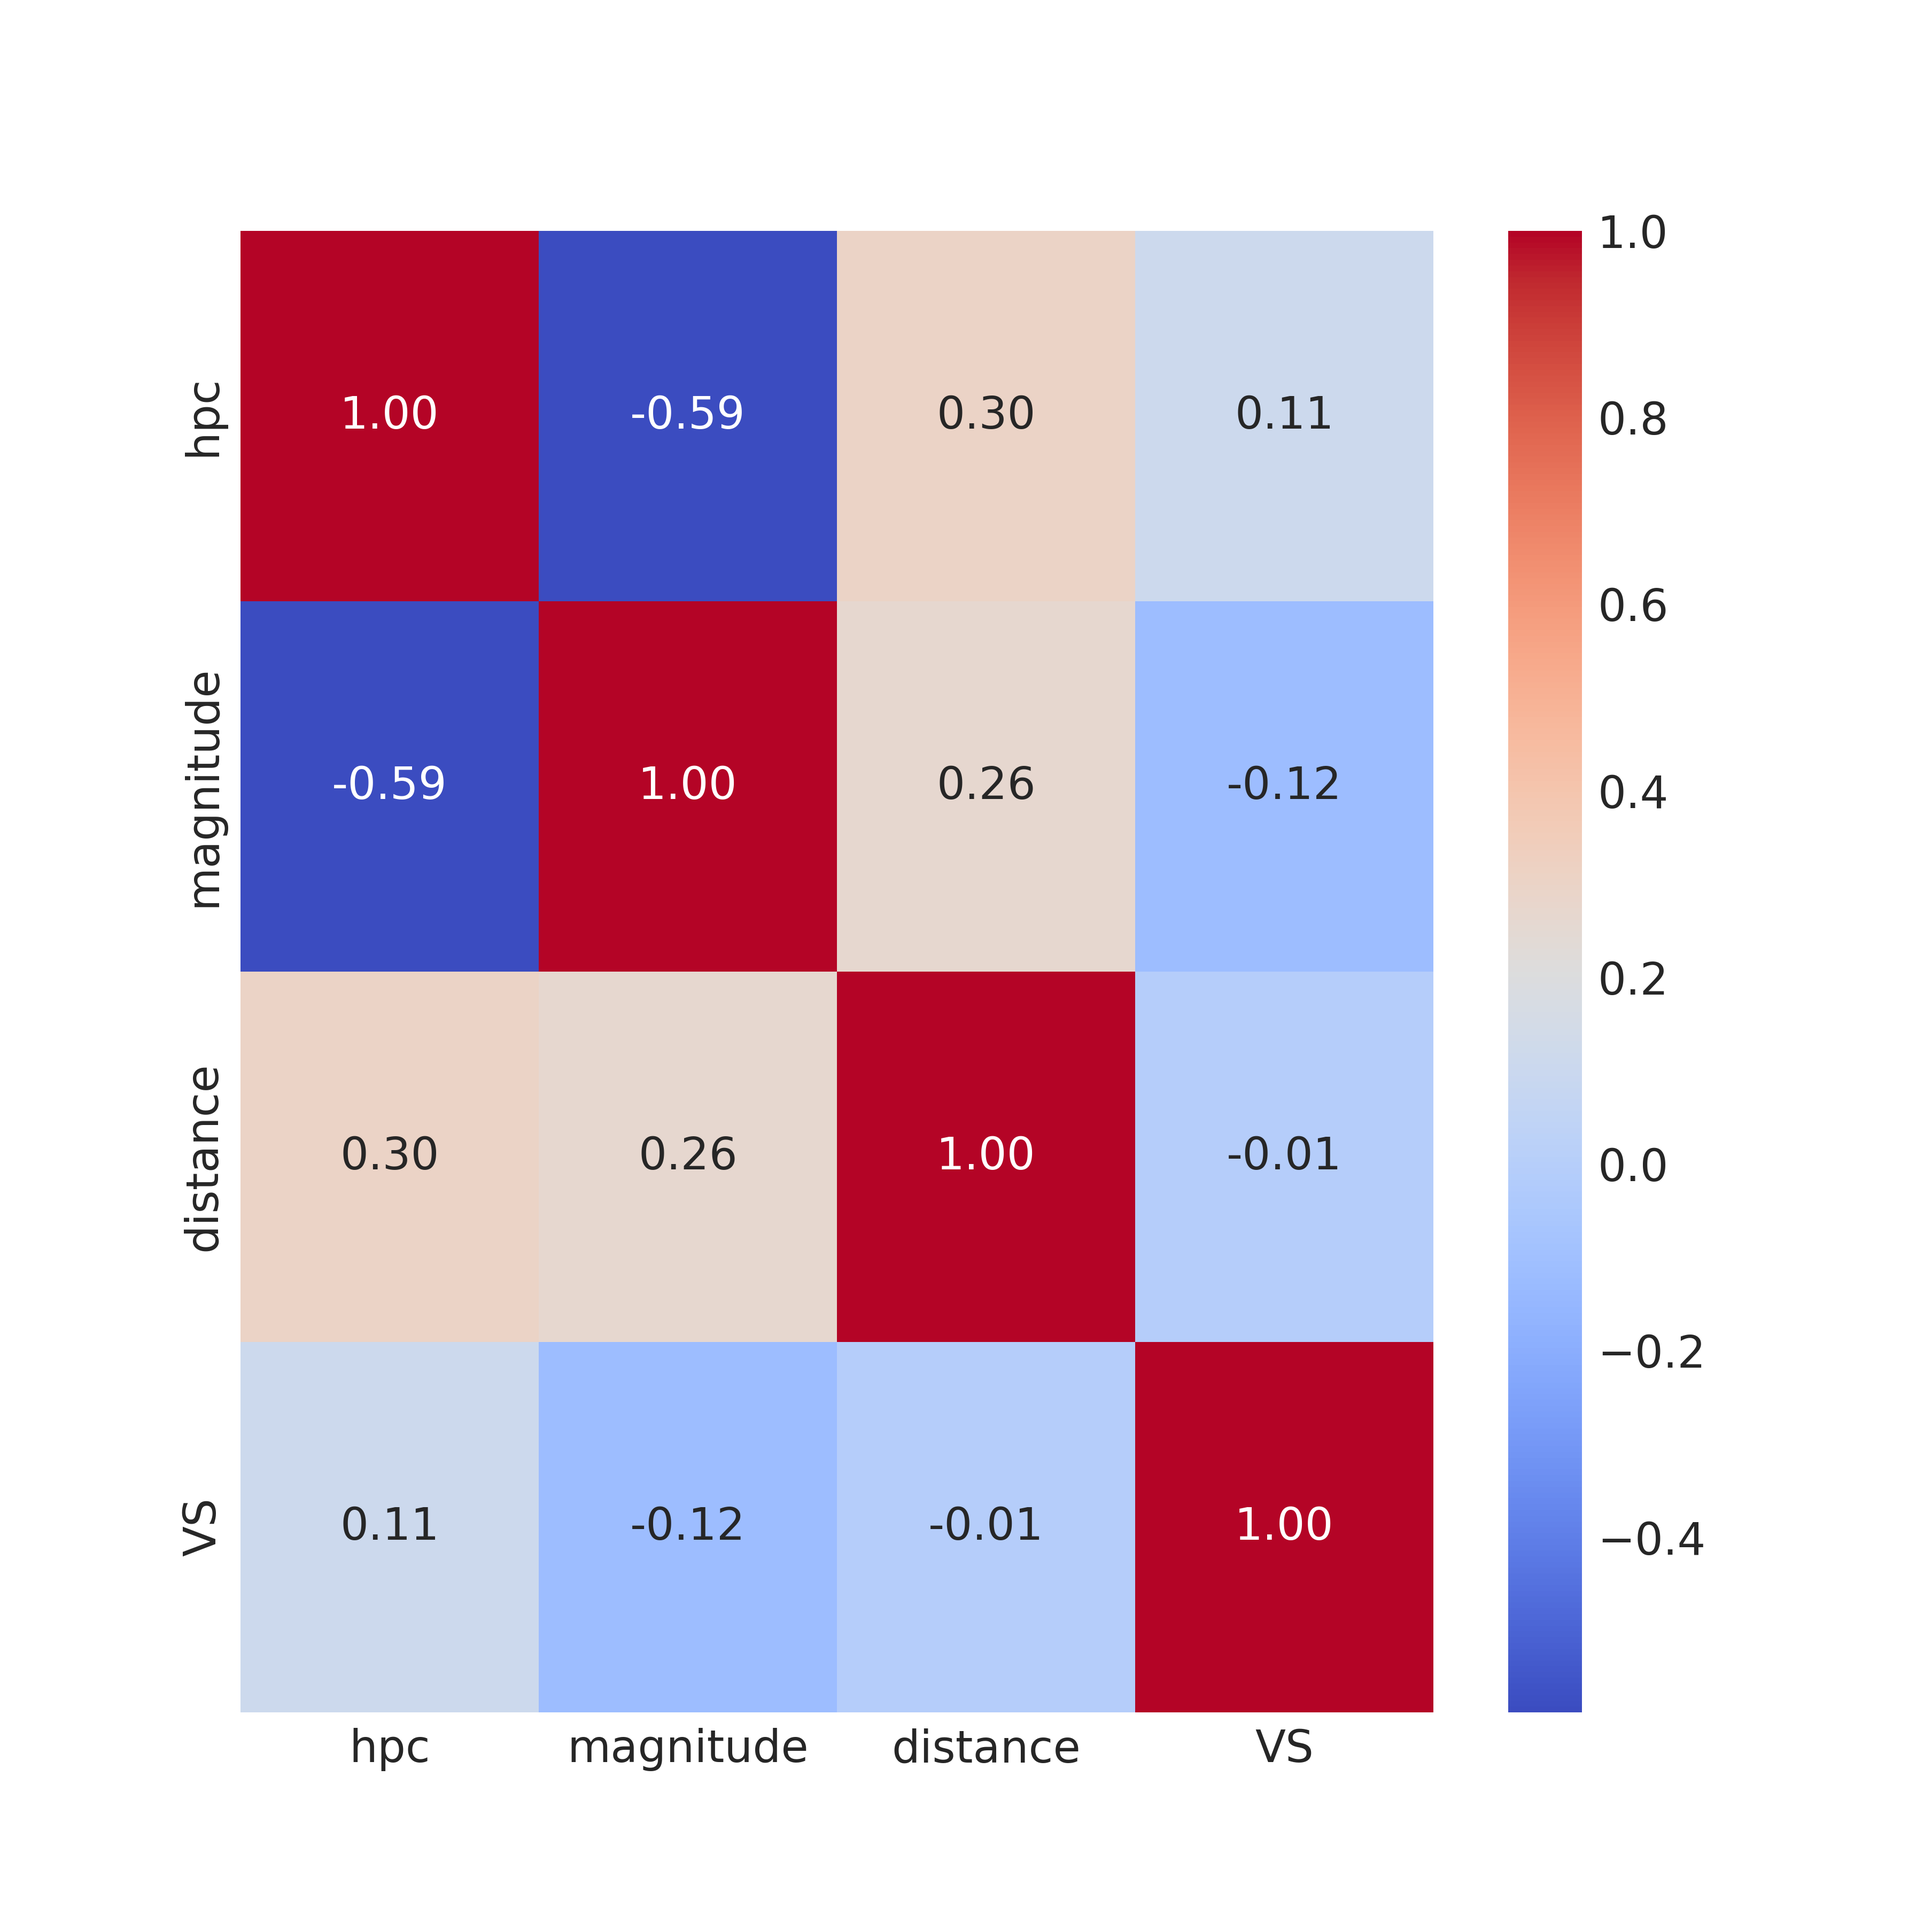
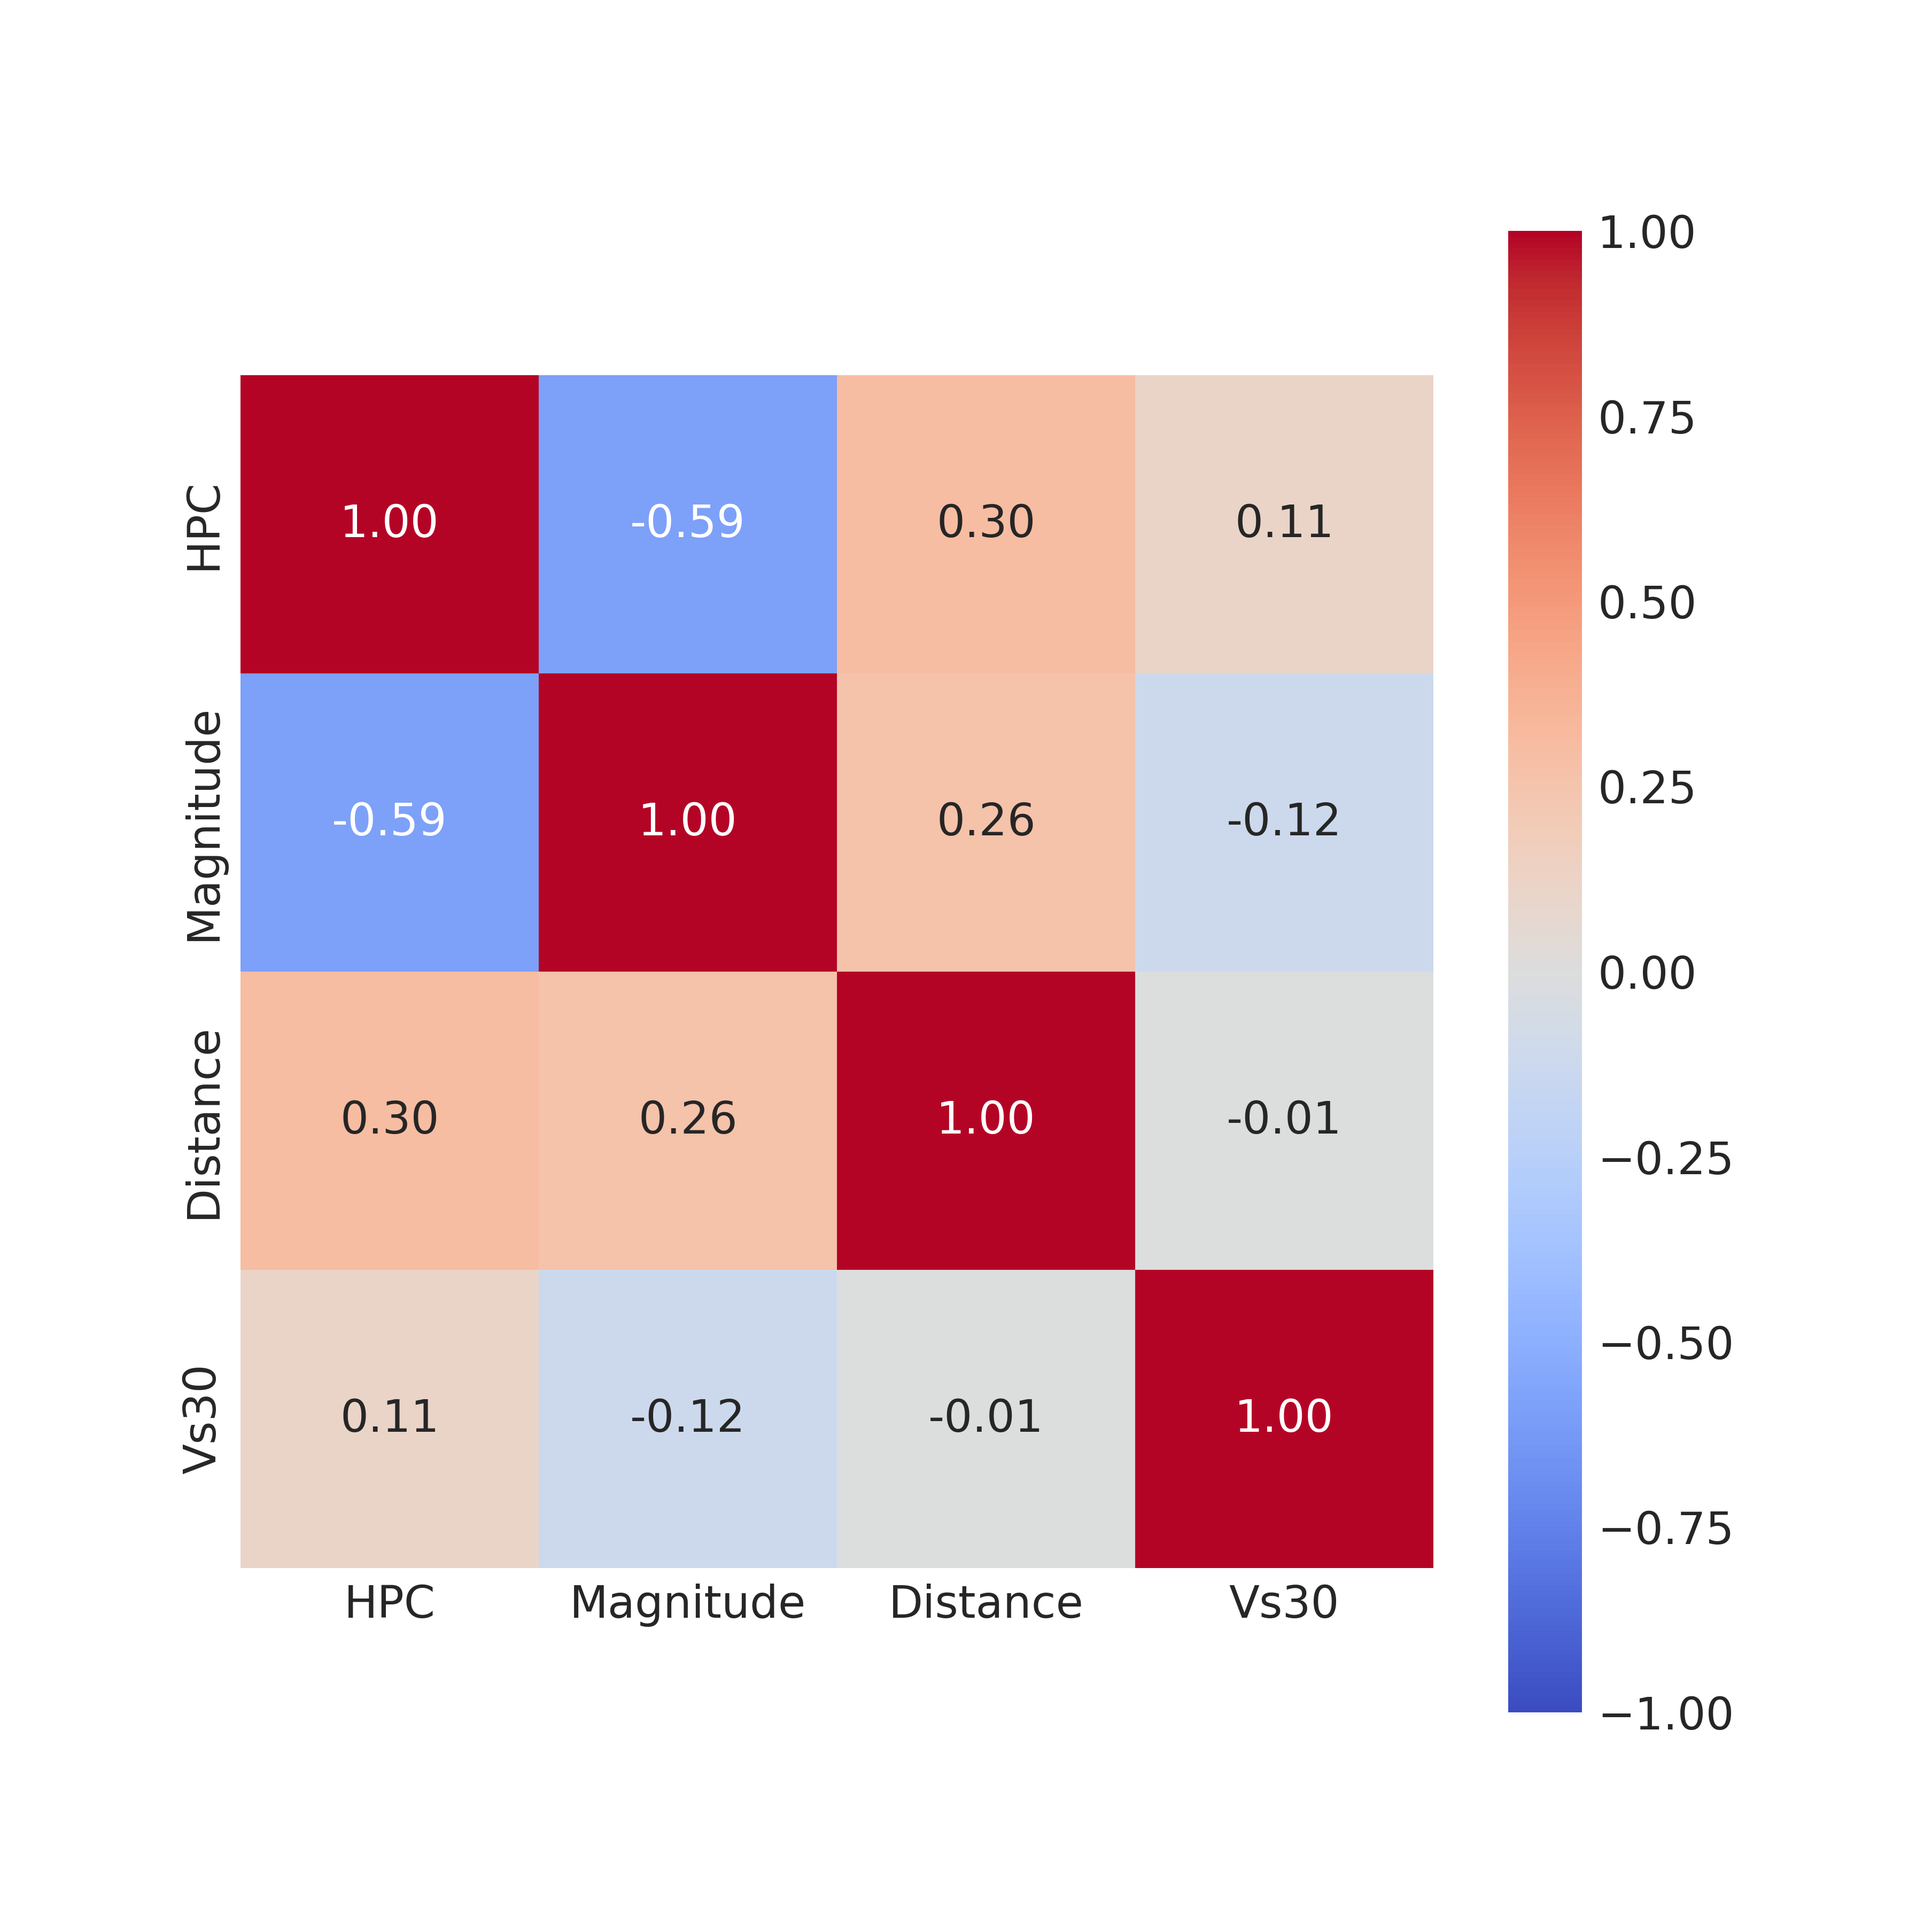
SRL_paper revisions

diff --git a/scripts/srl_paper.py b/scripts/srl_paper.py
@@ -119,13 +119,30 @@ print(f"Percentage of duplicate entries: {percentage:.2f}%")
 
 # --- 6. Distance-Magnitude plot % ---
 
-g = sns.jointplot(data=df, x="distance", y="magnitude", hue="label", kind='scatter', s=50, alpha=0.5, palette=['red', 'blue'], height=6)
+g = sns.jointplot(data=df, x="distance", y="magnitude", hue="label", kind='scatter', s=50, alpha=0.5, palette=['red', 'blue'], height=6,
+                  marginal_ticks=True)
 
+# approach 2
+# g = sns.JointGrid(data=df, x="distance", y="magnitude", hue="label", palette=['red', 'blue'], height=6,  marginal_ticks=True)
+# # Customize scatterplot: size and alpha
+# g.plot_joint(sns.scatterplot, s=60, alpha=0.4)
+# # Add marginal histograms
+# # g.plot_marginals(sns.histplot, alpha=0.4)
 
+# # Plot marginal histograms only
+
+# palette = {'Failed': 'red', 'Passed': 'blue'}
+# sns.histplot(data=df, x="distance", hue="label", common_norm=True, ax=g.ax_marg_x, log_scale=True, palette=palette,
+#              legend=False, alpha=0.4)
+# sns.histplot(data=df, y="magnitude", hue="label", common_norm=True, ax=g.ax_marg_y, palette=palette, legend=False, alpha=0.4)
+
+# Remove the legend
+g.ax_joint.legend_.remove()
 g.ax_joint.set_xscale('log')
 g.ax_joint.grid(True, linestyle='--', alpha=0.6) 
-g.savefig("../outputs/SRL_mag-dist.png", dpi=600)
+g.set_axis_labels("Distance (km)", "Magnitude (Mw)")
 
+g.savefig("../outputs/SRL_mag-dist.png", dpi=600)
 # --- 7. Network, and instrument plots % ---
 df_pass['instrument_type'] = df_pass['record_id'].str.split('.').str[3].str[:-1]
 all_networks = sorted(df_pass['network'].unique())
@@ -139,7 +156,7 @@ network_counts = df_pass['network'].value_counts().reindex(all_networks, fill_va
 total_records = len(df_pass)
 network_percentages = (network_counts / total_records) * 100
 
-# --- Subplot 2: Records with distance < 100 km by network as a percentage ---
+# --- Subplot 2: Records with distance < 50 km by network as a percentage ---
 # Filter the DataFrame for records with distance less than 50 km
 df_filtered = df_pass[df_pass['distance'] < 50]
 # Count the number of records for each network, reindex, and convert to percentages.
@@ -166,8 +183,8 @@ class_percentages = (class_counts / class_counts.sum()) * 100
 
 # Create a figure with two subplots side by side and shared x-axis
 # Create the figure and axes
-fig, axes = plt.subplots(3, 2, figsize=(16, 14))
-labels = ['(a)', '(b)', '(c)', '(d)', '(e)', '(f)']
+fig, axes = plt.subplots(3, 2, figsize=(14, 14))
+labels = ['(a)', '(b)', '(a)', '(b)', '(a)', '(b)']
 data_series = [
     network_percentages,
     network_percentages_filtered,
@@ -186,17 +203,34 @@ xlabels = [
 ]
 
 # Plot each subplot
-for i, ax in enumerate(axes.flat):
-    series = data_series[i]
-    ax.bar(series.index, series.values, color='gray', edgecolor='black')
-    ax.set_xlabel(xlabels[i])
-    ax.set_ylabel('Percentage (%)')
-    ax.grid(axis='y', linestyle='--', alpha=0.7)
-    ax.text(0.007, 0.98, labels[i], transform=ax.transAxes, fontsize=12, verticalalignment='top')
-    plt.setp(ax.get_xticklabels(), rotation=45 if i == 4 else (90 if i in [0, 1] else 0))
+# for i, ax in enumerate(axes.flat):
+#     series = data_series[i]
+#     ax.bar(series.index, series.values, color='gray', edgecolor='black')
+#     ax.set_xlabel(xlabels[i])
+#     ax.set_ylabel('Percentage (%)')
+#     ax.grid(axis='y', linestyle='--', alpha=0.7)
+#     ax.text(0.007, 0.98, labels[i], transform=ax.transAxes, fontsize=12, verticalalignment='top')
+#     plt.setp(ax.get_xticklabels(), rotation=45 if i == 4 else (90 if i in [0, 1] else 0))
+# plt.tight_layout()
+# plt.savefig("../outputs/SRL_net_inst_vs.png", dpi=600)
+# Create three separate 2x1 figures
+fig_file = ['../outputs/SRL_net.png', '../outputs/SRL_inst.png','../outputs/SRL_vs.png']
+for fig_num in range(3):
+    fig, axes = plt.subplots(2, 1, figsize=(6, 6))
+    for i in range(2):
+        idx = fig_num * 2 + i
+        ax = axes[i]
+        series = data_series[idx]
+        ax.bar(series.index, series.values, color='gray', edgecolor='black')
+        ax.set_xlabel(xlabels[idx])
+        ax.set_ylabel('Percentage (%)')
+        ax.grid(axis='y', linestyle='--', alpha=0.7)
+        ax.text(0.007, 0.98, labels[idx], transform=ax.transAxes, fontsize=12, verticalalignment='top')
+        plt.setp(ax.get_xticklabels(), rotation=45 if idx == 4 else (90 if idx in [0, 1] else 0))
+    plt.tight_layout()
+    plt.savefig(fig_file[fig_num], dpi=600)
+breakpoint()
 
-plt.tight_layout()
-plt.savefig("../outputs/SRL_net_inst_vs.png", dpi=600)
 # --- 8. plot fail reason histogram % ---
 df_fail_all_channels = df_fail_all_channels[(df_fail_all_channels['record_id'].str.endswith('Z')) & (df_fail_all_channels['magnitude'] >= 3.75) & (df_fail_all_channels['distance'] <= 1500)]
 # Filter out rows where fail_reason is 'Passed'
@@ -208,8 +242,8 @@ mapping = {
     "Colocated with HN instrument.": "Colocated",
     "No instruments match entries in the colocated instrument preference list for this station.": "Colocated",
     "Failed SNR check.": "SNR_check",
-    "SNR not greater than required threshold.": "SNR_check",
-    "SNR not met within the required bandwidth.": "SNR_check",
+    "SNR not greater than required threshold.": "SNR check",
+    "SNR not met within the required bandwidth.": "SNR check",
     "Failed clipping check.": "Clipping check",
     "Failed noise window duration check.": "Noise window check",
     "Minimum sample rate of 20.0 not exceeded.": "Sampling rate check",
@@ -234,7 +268,7 @@ df_fail_all_channels['mapped_fail_reason'].value_counts().plot(kind='bar', color
 plt.title('Frequency of Fail Reason Categories')
 plt.xlabel('Fail Reason Category')
 plt.ylabel('Frequency')
-plt.xticks(rotation=45)
+plt.xticks(rotation=45, ha='right')
 plt.tight_layout()
 plt.savefig("../outputs/SRL_fail_hist.png", dpi=600)
 plt.show()
@@ -249,9 +283,14 @@ selected_columns = ['hpc', 'magnitude', 'distance', 'VS']
 
 correlation_matrix = df_merged[selected_columns].corr()
 
+# Rename columns for plotting
+renamed_columns = ['HPC', 'Magnitude', 'Distance', 'Vs30']
+correlation_matrix.columns = renamed_columns
+correlation_matrix.index = renamed_columns
+
 # Plot the correlation heatmap
 plt.figure(figsize=(6, 6))
-sns.heatmap(correlation_matrix, annot=True, cmap='coolwarm', fmt=".2f")
+sns.heatmap(correlation_matrix, annot=True, cmap='coolwarm', fmt=".2f", square=True, vmin=-1, vmax=1, center=0)
 # plt.title('Correlation Heatmap between fhpc and Selected Features')
 plt.savefig("../outputs/SRL_corr_mtrx.png", dpi=600)
 plt.show()
